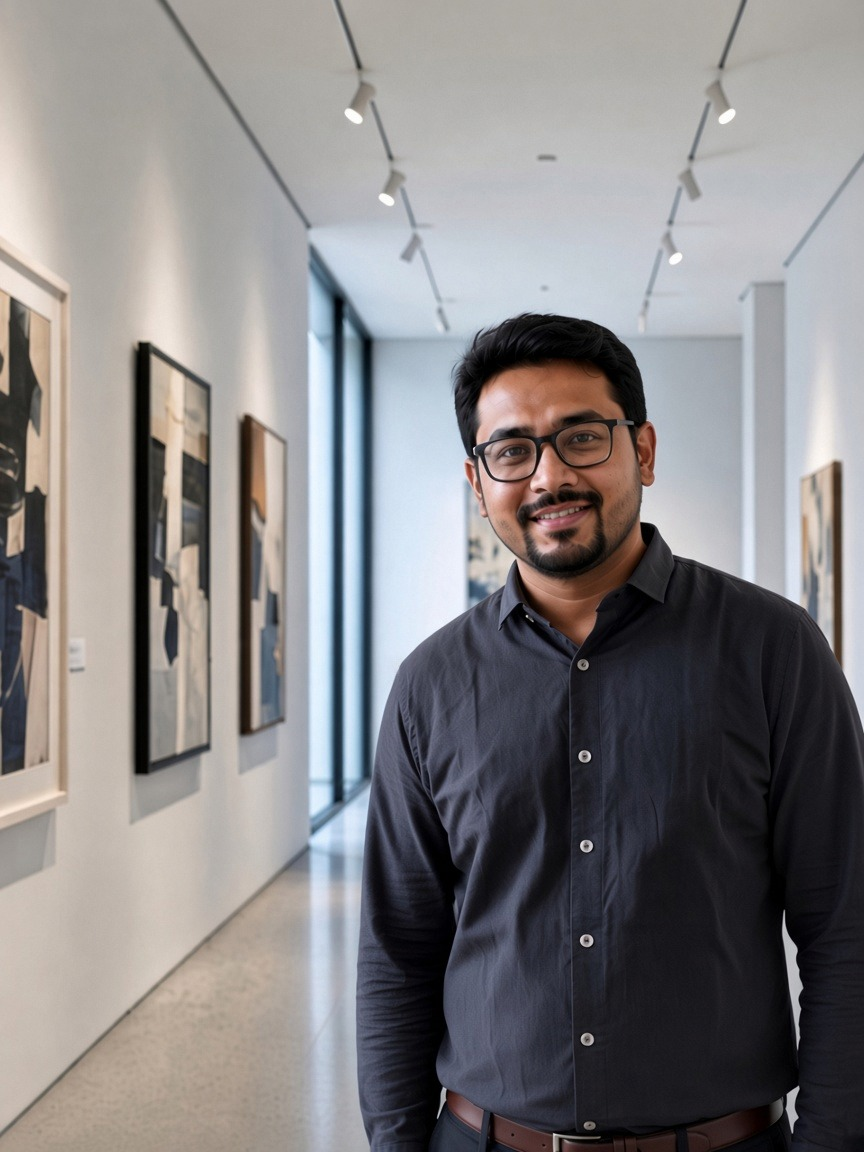
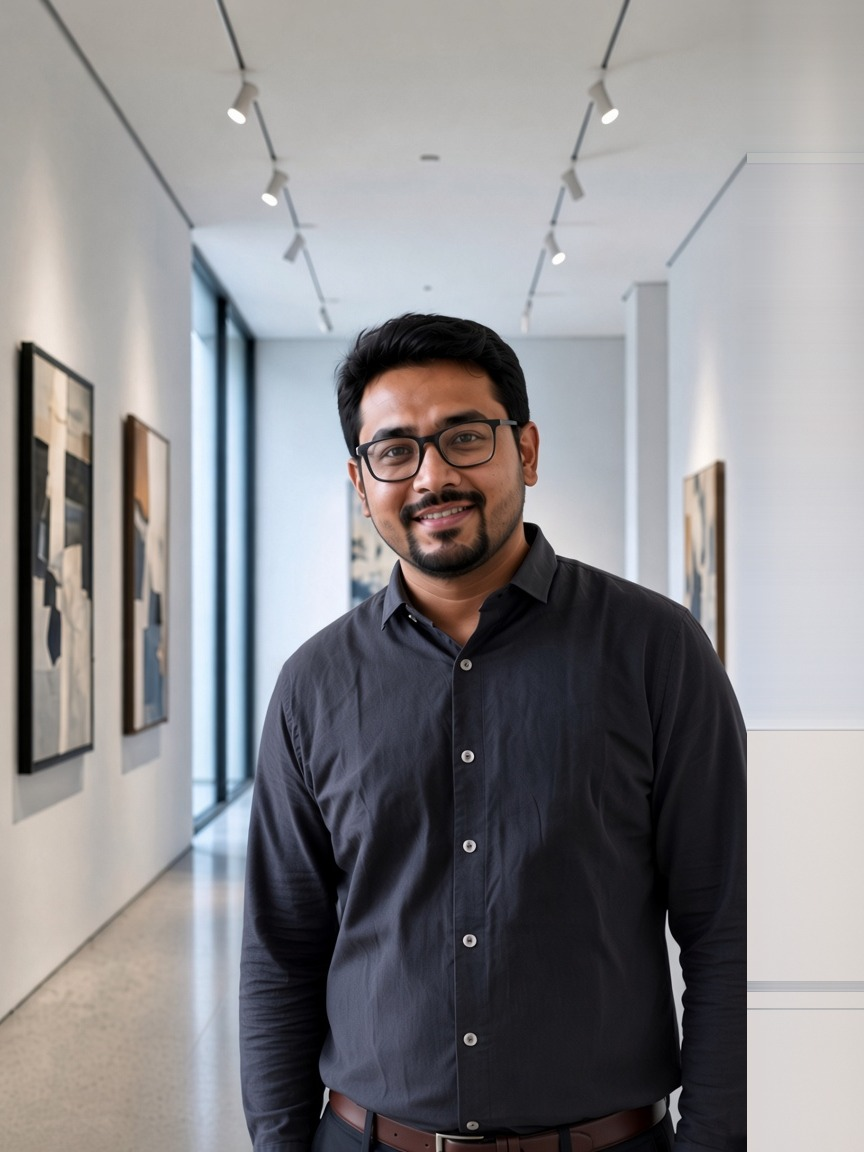
Center Rohan Desai desk138 DP for circle crop
Keep waist-up zoom (faceH ~0.18) and extend the right gallery wall
so the face sits at horizontal center (~0.50). Bump JPEG ?v=12.

diff --git a/js/app.js b/js/app.js
@@ -813,7 +813,7 @@ const MENTORS = [
   { name: "Vikram Singh", role: "Price action coach", tag: "Swing trading", img: "https://images.unsplash.com/photo-1506794778202-cad84cf45f1d?auto=format&fit=crop&w=640&h=860&q=80" },
   { name: "Ananya Rao", role: "Long-term investor", tag: "Portfolio", img: "https://images.unsplash.com/photo-1573496359142-b8d87734a5a2?auto=format&fit=crop&w=640&h=860&q=80" },
   { name: "Kabir Joshi", role: "Index options", tag: "Bank Nifty", img: "/img/instructors/kabir-joshi.jpg?v=9" },
-  { name: "Rohan Desai", role: "Fund researcher", tag: "Mutual funds", img: "/img/instructors/rohan-desai.jpg?v=11" },
+  { name: "Rohan Desai", role: "Fund researcher", tag: "Mutual funds", img: "/img/instructors/rohan-desai.jpg?v=12" },
   { name: "Priya Nair", role: "Asset allocation", tag: "SIP lab", img: "https://images.unsplash.com/photo-1580489944761-15a19d654956?auto=format&fit=crop&w=640&h=860&q=80" },
   { name: "Meera Iyer", role: "Options coach", tag: "Defined risk", img: "https://images.unsplash.com/photo-1438761681033-6461ffad8d80?auto=format&fit=crop&w=640&h=860&q=80" }
 ];
@@ -4923,6 +4923,7 @@ function traderIcon(kind) {
 /* cache-bust desk135: edge purge after CF poison on #86 (app.js?v=desk134 held desk133; Rohan JPEG ?v=7 held v6) /img/instructors/rohan-desai.jpg?v=8 */
 /* cache-bust desk136: Rohan Desai DP widen framing (crop-only from desk133 flutter) /img/instructors/rohan-desai.jpg?v=9 */
 /* cache-bust desk138: Rohan Desai DP zoom-out extend gallery half-body /img/instructors/rohan-desai.jpg?v=11 */
+/* cache-bust desk138b: center face for circle (same zoom, right gallery extend) /img/instructors/rohan-desai.jpg?v=12 */
 function traderCardHTML(m, i, opts = {}) {
   const title = String(m.role || m.tag || "Mentor").trim();
   const cloneAttrs = opts.clone ? ' tabindex="-1" aria-hidden="true"' : "";
